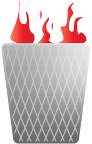
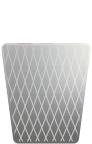
add fire shader to burning trash

diff --git a/Scripts/Enemies/BurningTrash.cs b/Scripts/Enemies/BurningTrash.cs
@@ -1,0 +1,17 @@
+using Godot;
+
+namespace GlobalGameJam.Scripts.Enemies;
+
+public partial class BurningTrash : Trap
+{
+    public override void _Ready()
+    {
+        base._Ready();
+        Sprite2D fireSprite = this.GetNode<Sprite2D>("Fire");
+        ShaderMaterial material = (ShaderMaterial)fireSprite.Material.DuplicateDeep();
+        NoiseTexture2D noiseTexture2D = (NoiseTexture2D)material.GetShaderParameter("noise_tex").As<NoiseTexture2D>().DuplicateDeep();
+        ((FastNoiseLite)noiseTexture2D.Noise).Seed = GD.RandRange(0, int.MaxValue);
+        material.SetShaderParameter("noise_tex", noiseTexture2D);
+        fireSprite.Material = material;
+    }
+}

diff --git a/Scripts/Enemies/Trap.cs b/Scripts/Enemies/Trap.cs
@@ -1,5 +1,4 @@
 using Godot;
-using System;
 using GlobalGameJam.Scripts;
 
 public partial class Trap : StaticBody2D, IAssignableLayer
